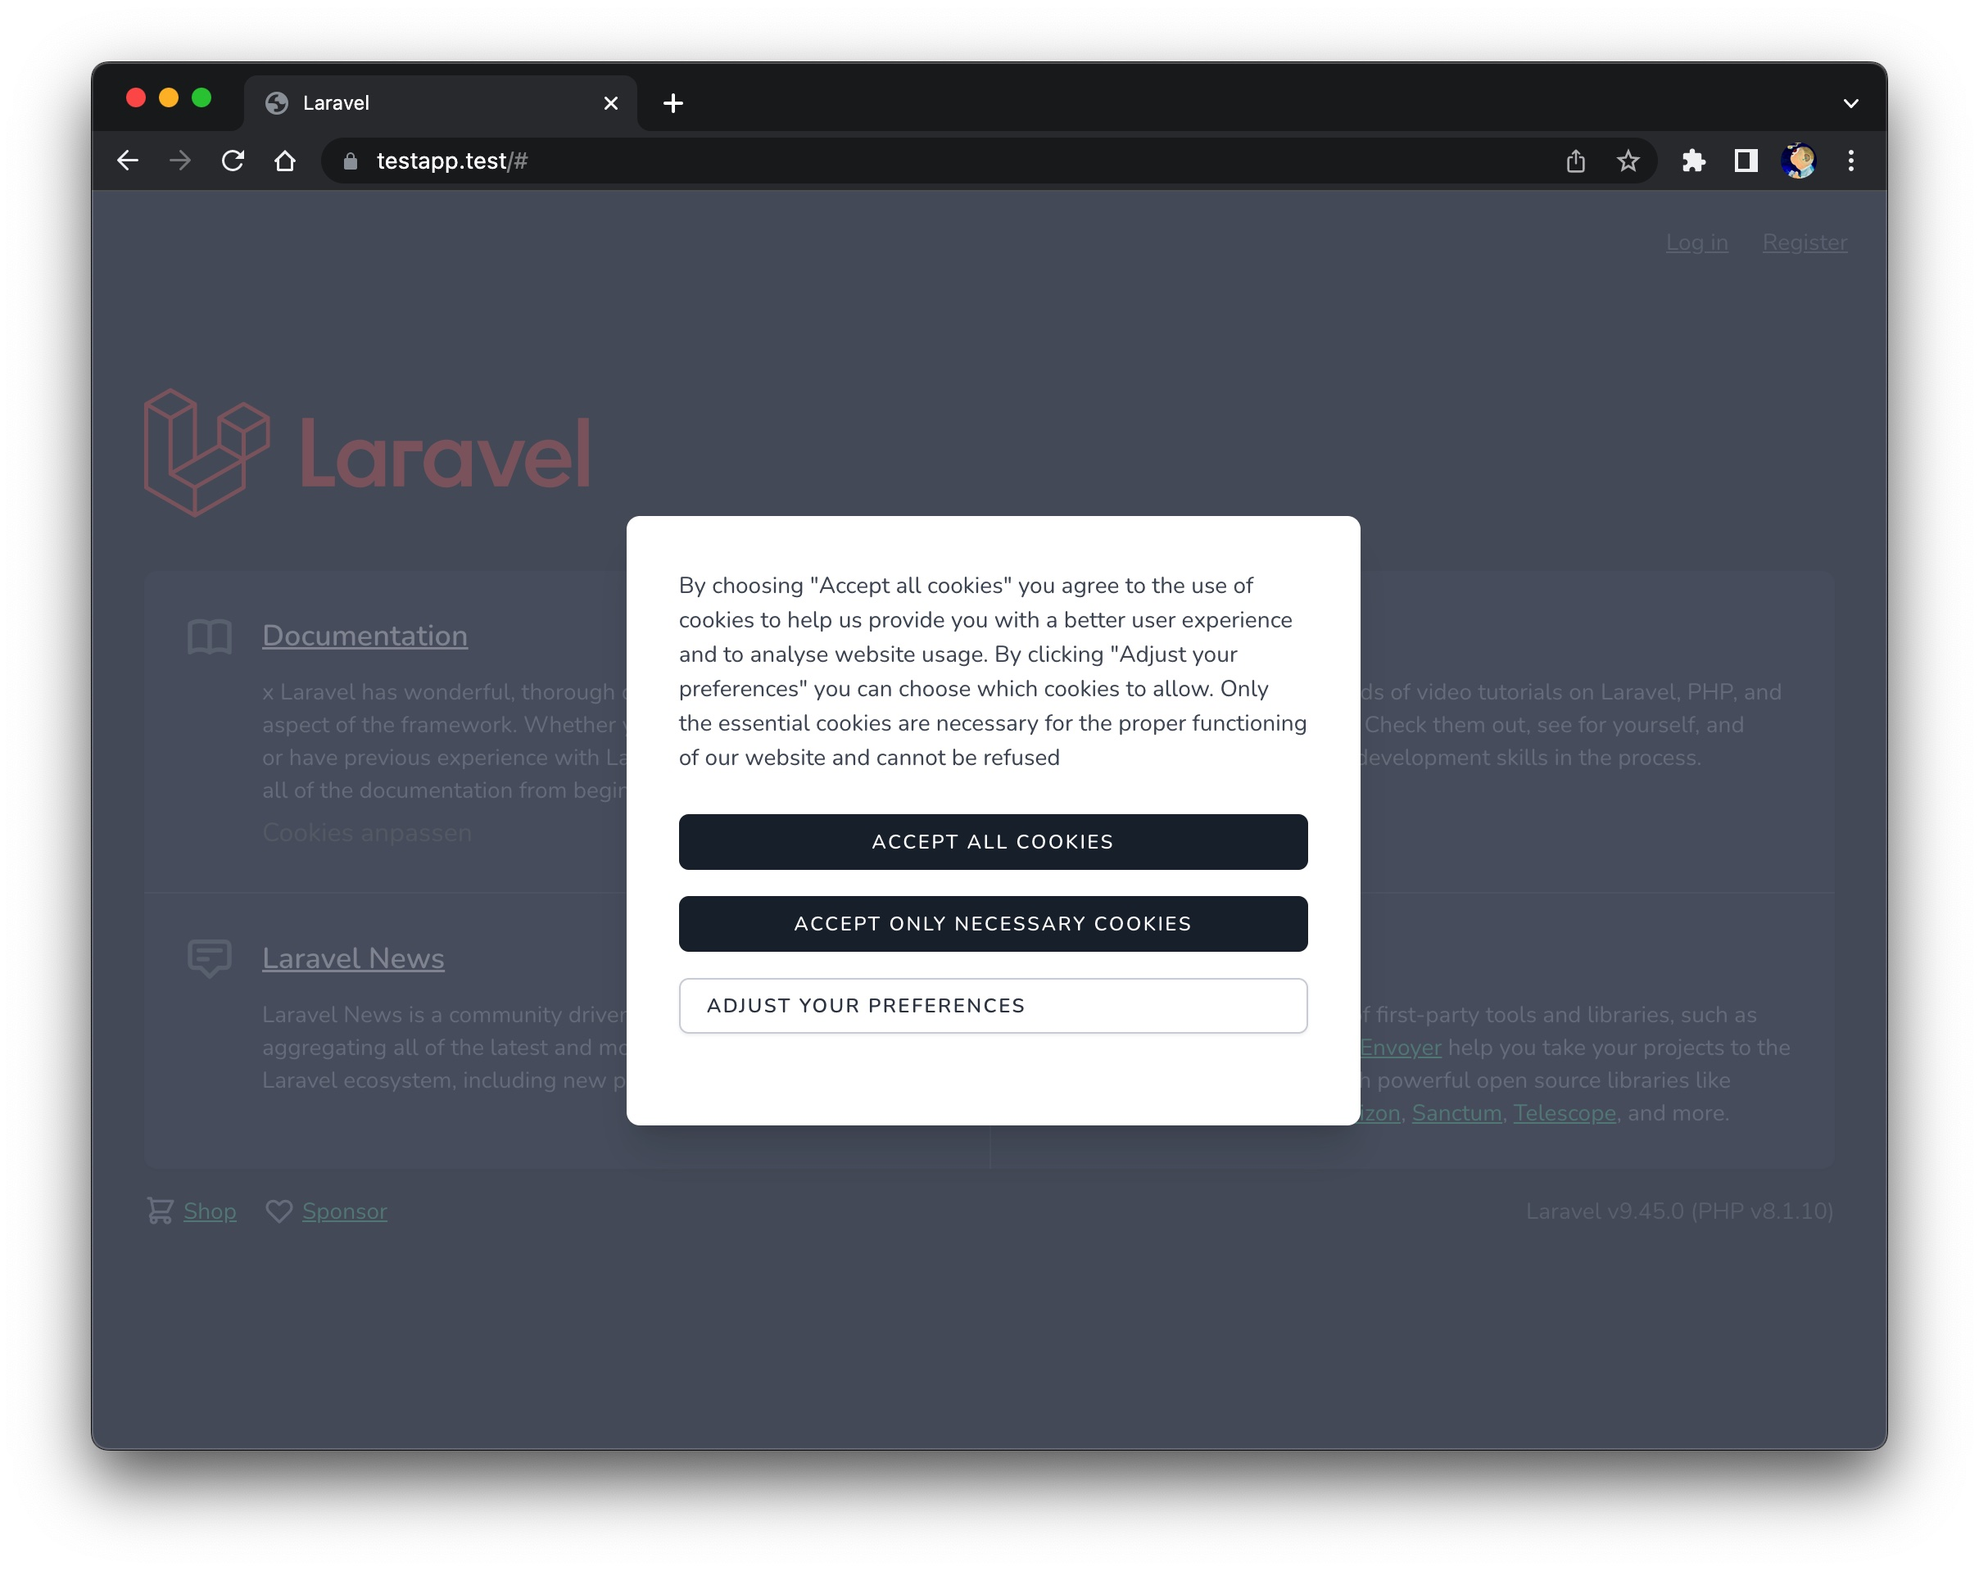
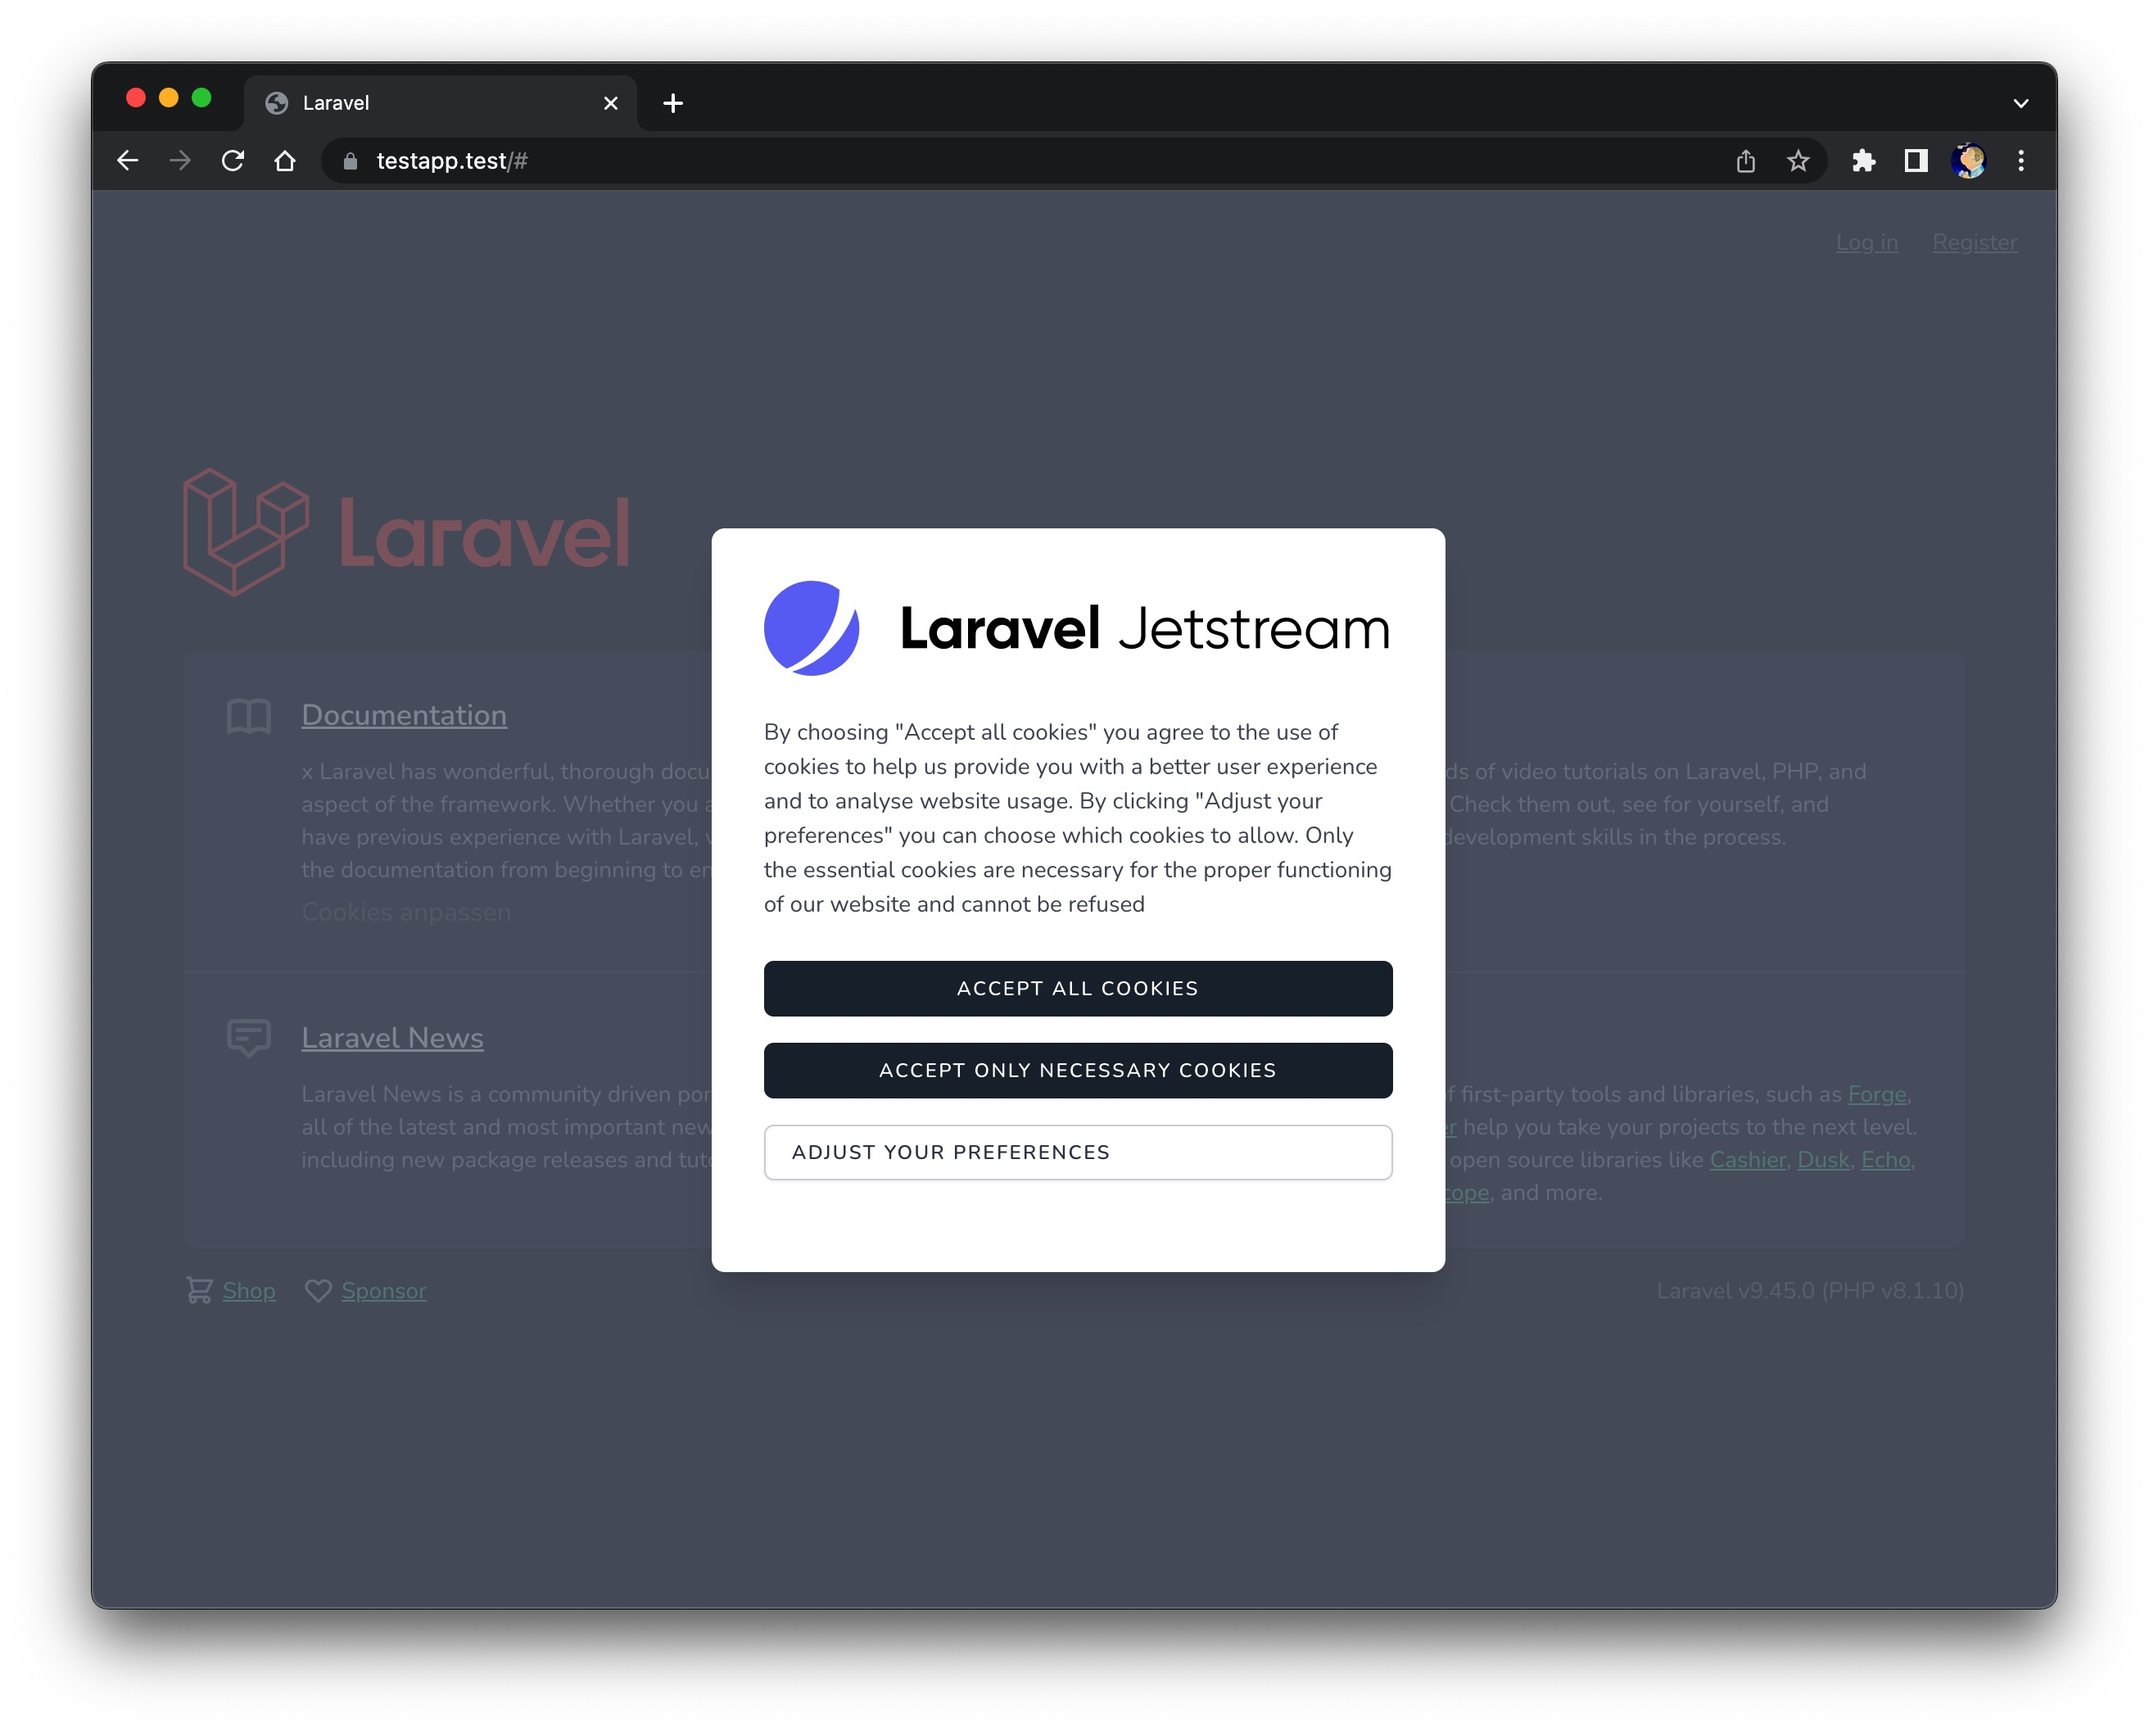
new screenshots for cookie consent modals

diff --git a/resources/views/cookie-consent-edit.blade.php b/resources/views/cookie-consent-edit.blade.php
@@ -12,7 +12,7 @@
         </svg>
     </div>
 
-    <div class="flex items-left mb-0">
+    <div class="flex items-left mb-5">
         <x-jet-application-logo/>
     </div>
 

diff --git a/resources/views/cookie-consent-modal.blade.php b/resources/views/cookie-consent-modal.blade.php
@@ -2,6 +2,7 @@
 
     <div class="mb-6">
         {{-- your logo--}}
+        <x-jet-application-logo/>
     </div>
 
     <div class="mb-6">
